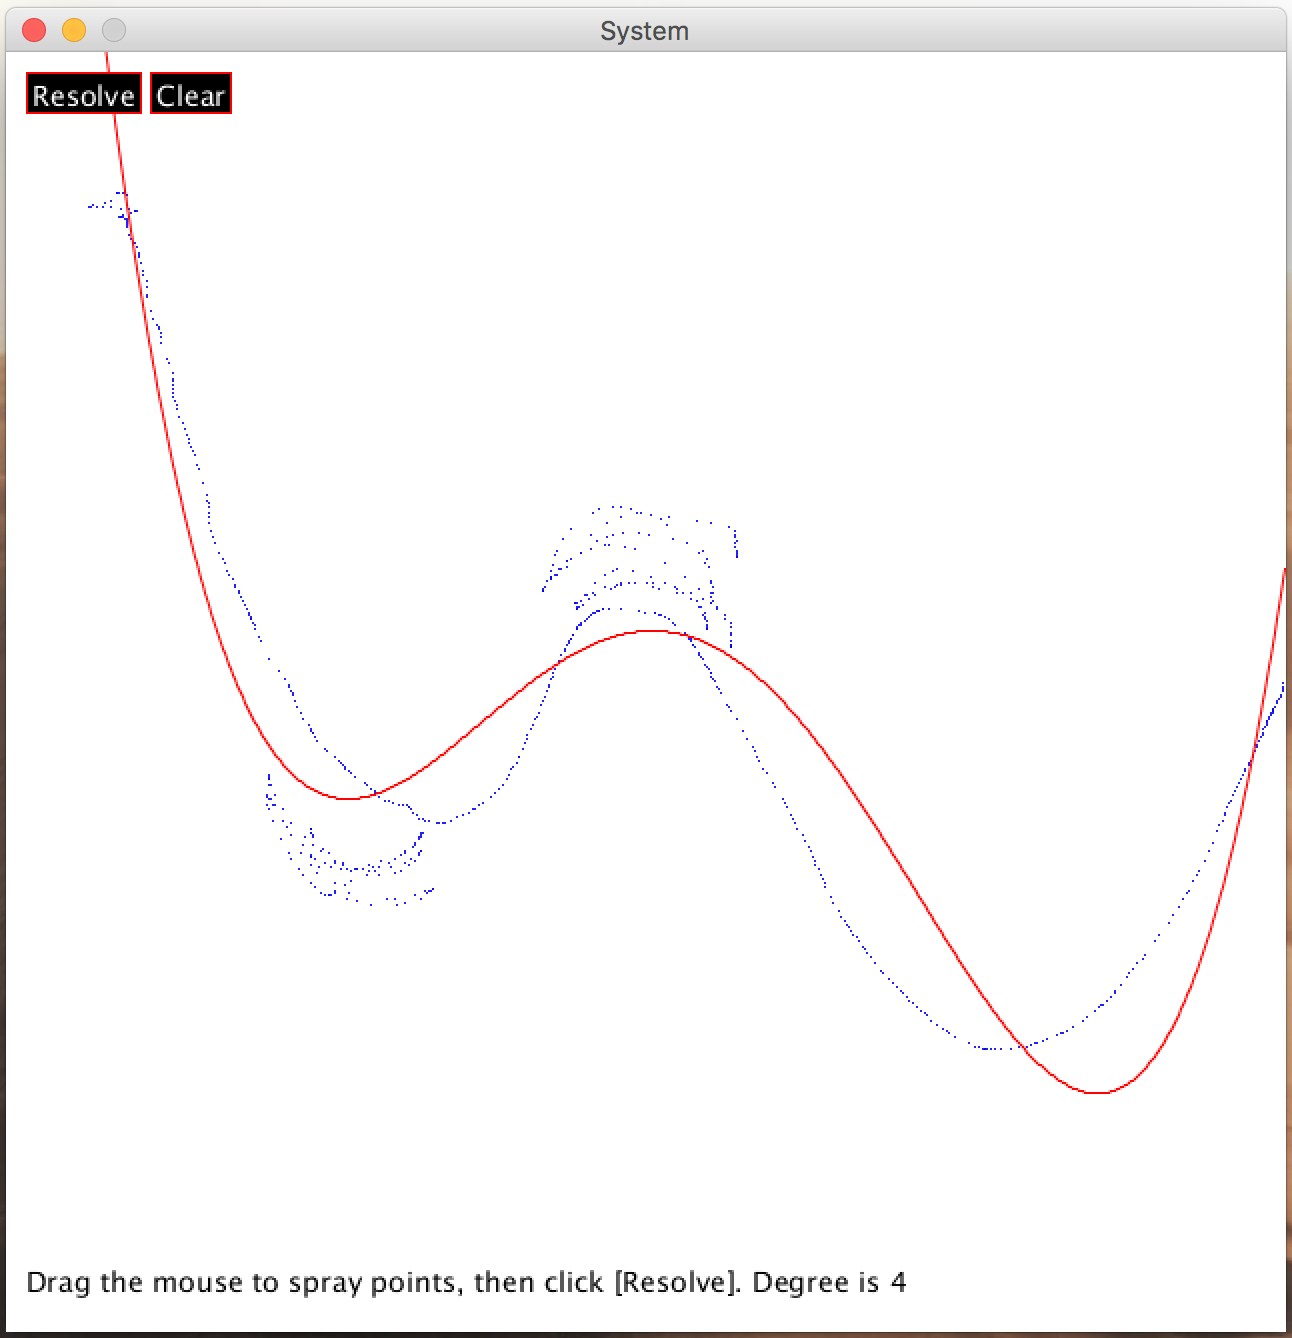
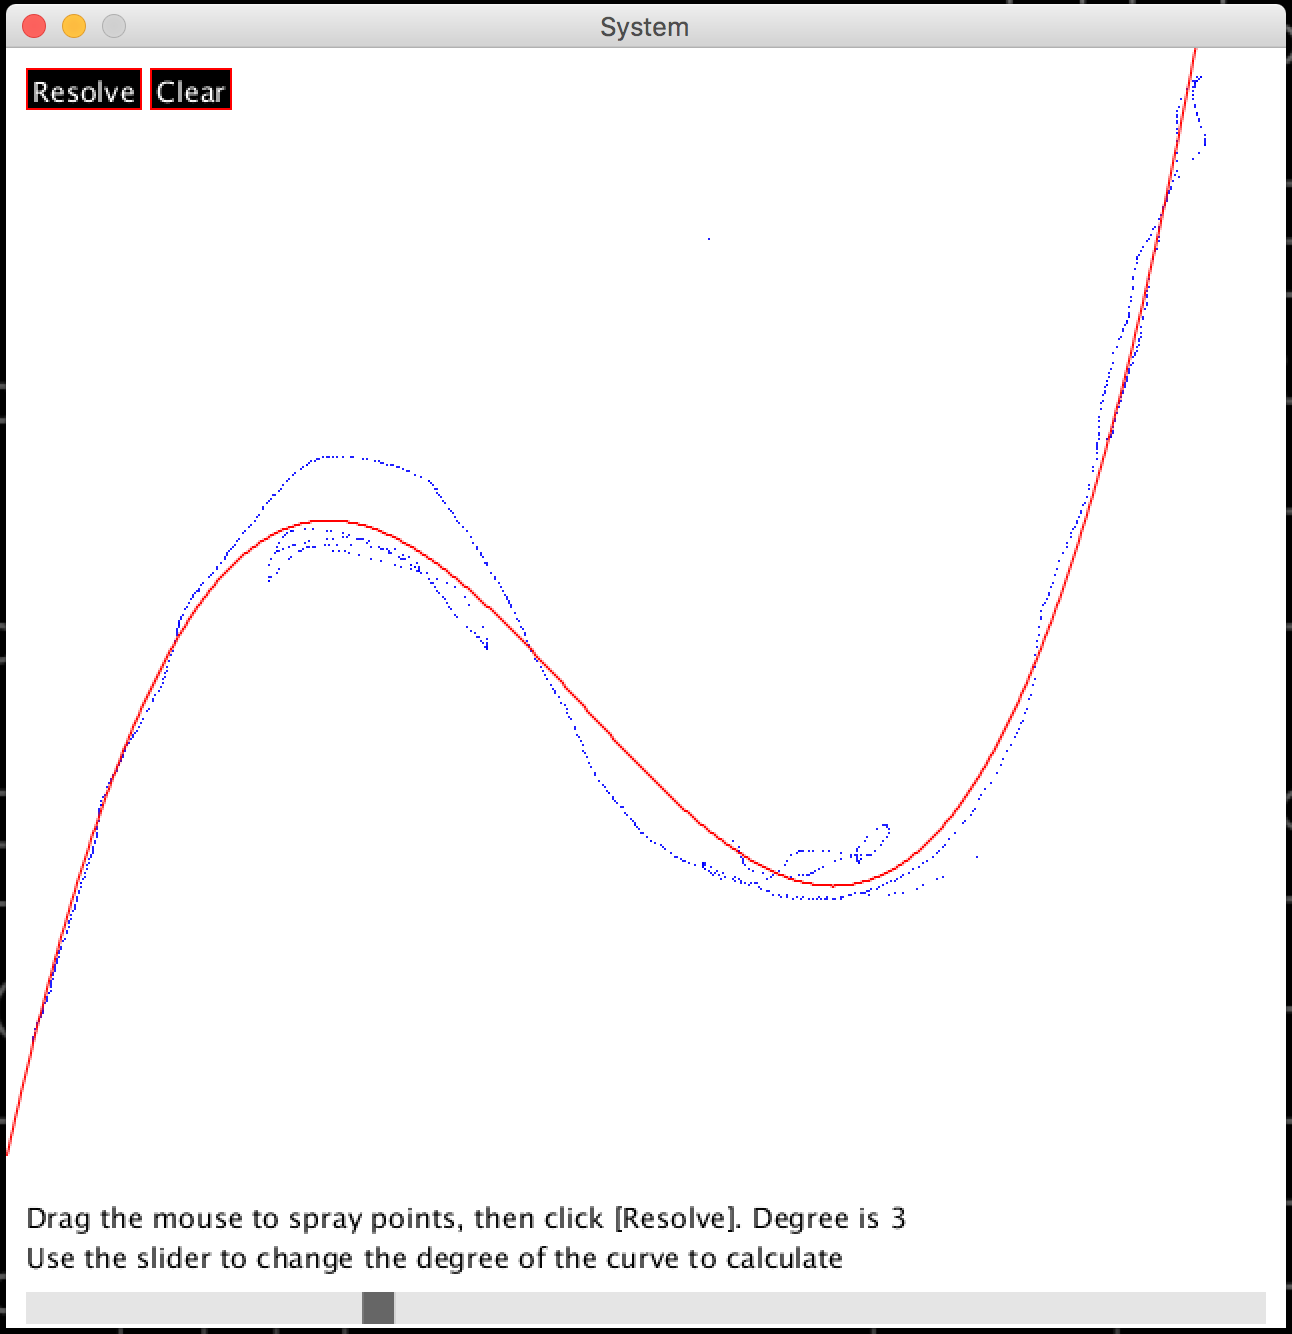
Added a slider for the degree

diff --git a/RasPISamples/LanguageComparison.md b/RasPISamples/LanguageComparison.md
@@ -249,9 +249,7 @@ It is an interactive curve resolution, using the `least squares` method.
 
 ![Processing](./img/least.square.png)
 
-If needed, change the degree of the result polynom in the code.
-
-![degree](./img/degree.png)
+If needed, change the degree of the result polynom using the slider at the bottom of the screen.
 
 See the calculated coefficients in the console output.
 
